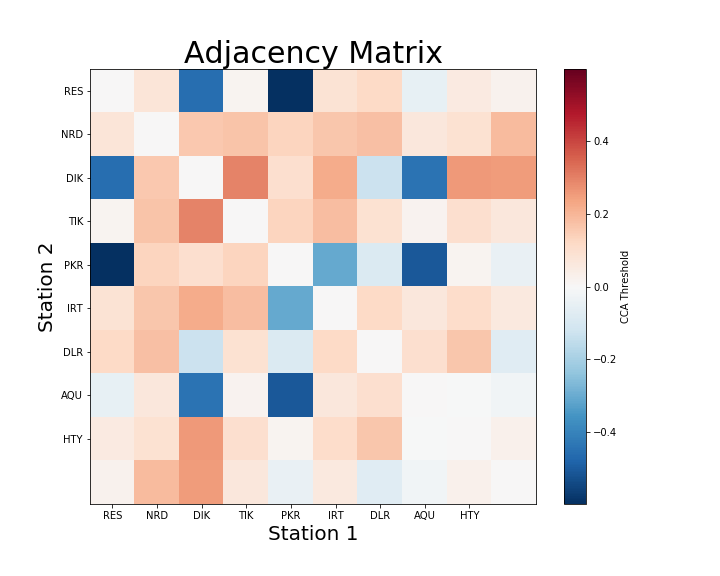
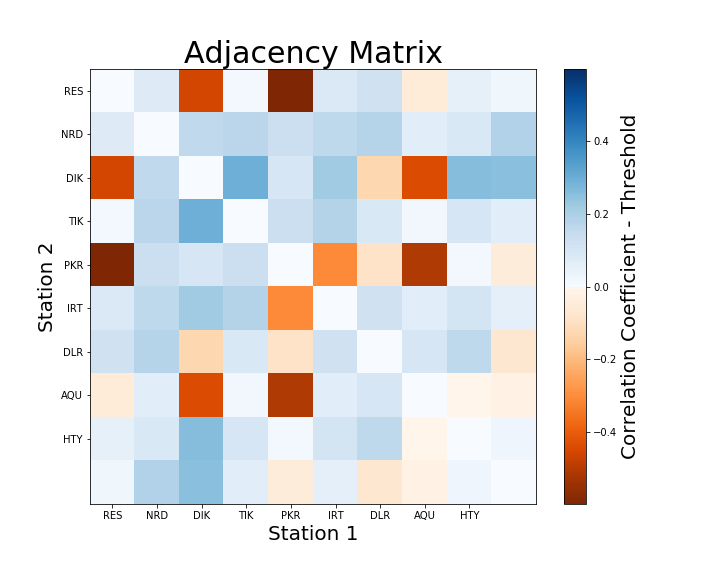
added more poster stuff (colormaps)

diff --git a/First Pass/testing.py b/First Pass/testing.py
@@ -10,6 +10,8 @@ import matplotlib.pyplot as plt
 import sys
 import os
 import lib.supermag as sm
+from matplotlib import cm
+from matplotlib.colors import ListedColormap
 import lib.rcca as rcca
 # import xscale.signal.fitting as xsf # useful functions for xarray data structures
     # pip3 install git+https://github.com/serazing/xscale.git
@@ -168,14 +170,25 @@ adj_mat = cca - thresh.thresholds
 adj_mat = adj_mat.assign_coords(first_st = range(num_st))
 adj_mat = adj_mat.assign_coords(second_st = range(num_st))
 
+# define new colormap
+top = cm.get_cmap('Oranges_r', 128)
+bottom = cm.get_cmap('Blues', 128)
+
+newcolors = np.vstack((top(np.linspace(0, 1, 128)),
+                       bottom(np.linspace(0, 1, 128))))
+newcmap = ListedColormap(newcolors, name='OrangeBlue')
+
 # must run all following code simultaneously
 fig = plt.figure(figsize=(10,8))
-adj_mat.cca_coeffs.plot.pcolormesh(yincrease=False, cbar_kwargs={'label': 'CCA Threshold'})
+g = adj_mat.cca_coeffs.plot.pcolormesh(yincrease=False,
+                                       cmap=newcmap,
+                                       cbar_kwargs={'label': 'Correlation Coefficient - Threshold'})
 plt.title('Adjacency Matrix', fontsize=30)
 plt.xlabel('Station 1', fontsize=20)
 plt.xticks(ticks=range(9), labels=stations, rotation=0)
 plt.ylabel('Station 2', fontsize=20)
 plt.yticks(ticks=range(9), labels=stations, rotation=0)
+g.figure.axes[-1].yaxis.label.set_size(20)
 plt.savefig('First Pass/adj_mat2.png')
 plt.show()
 ################################################################################
